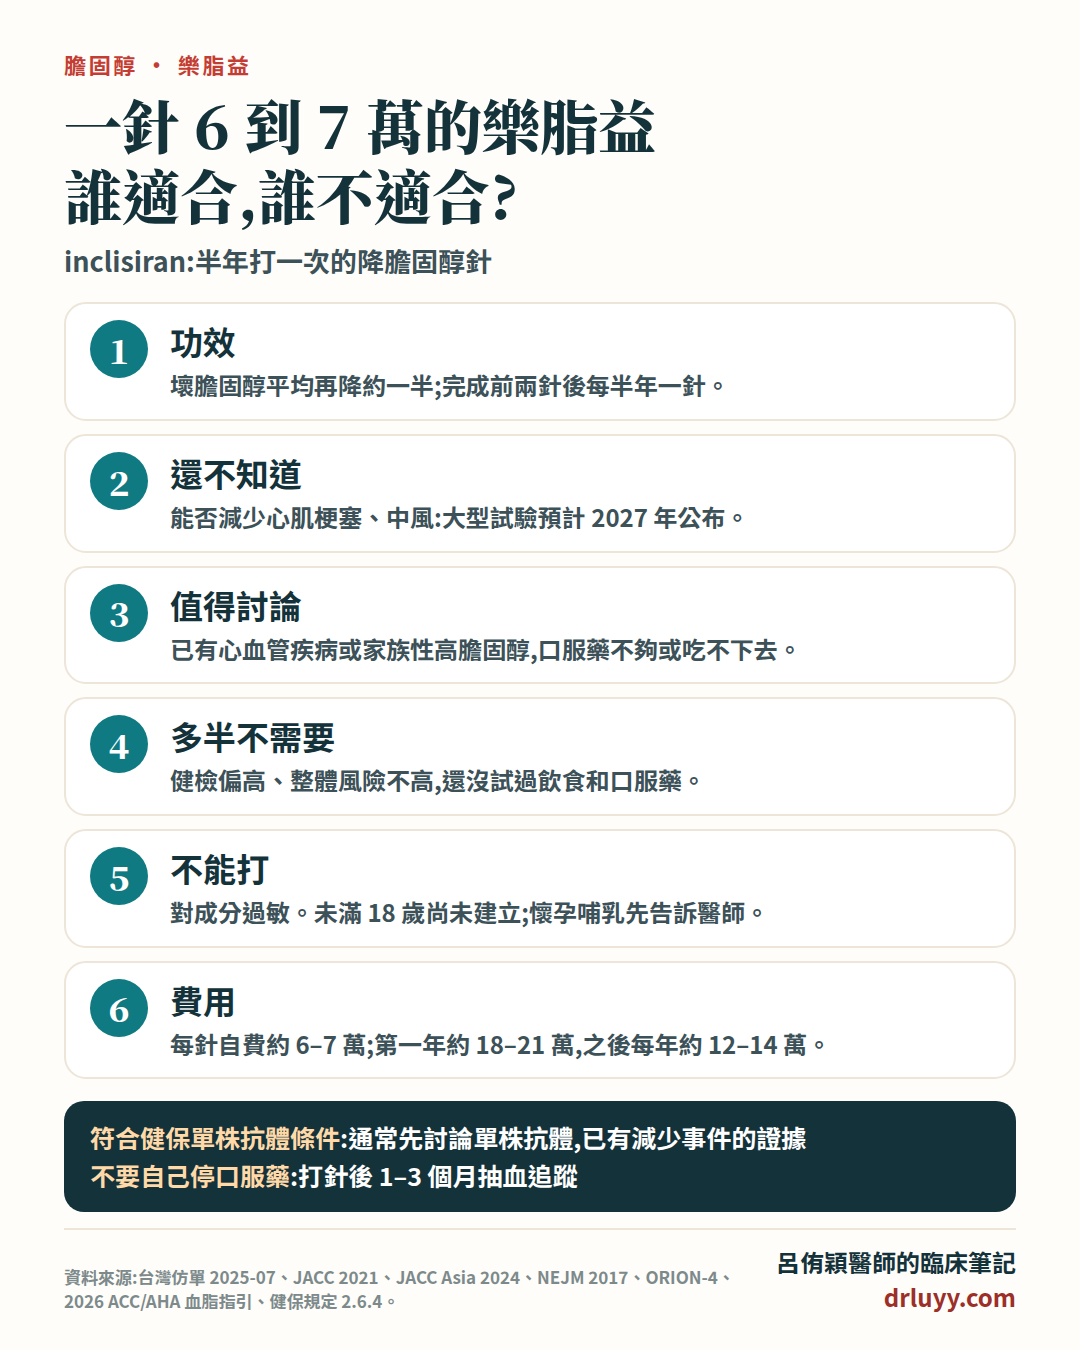
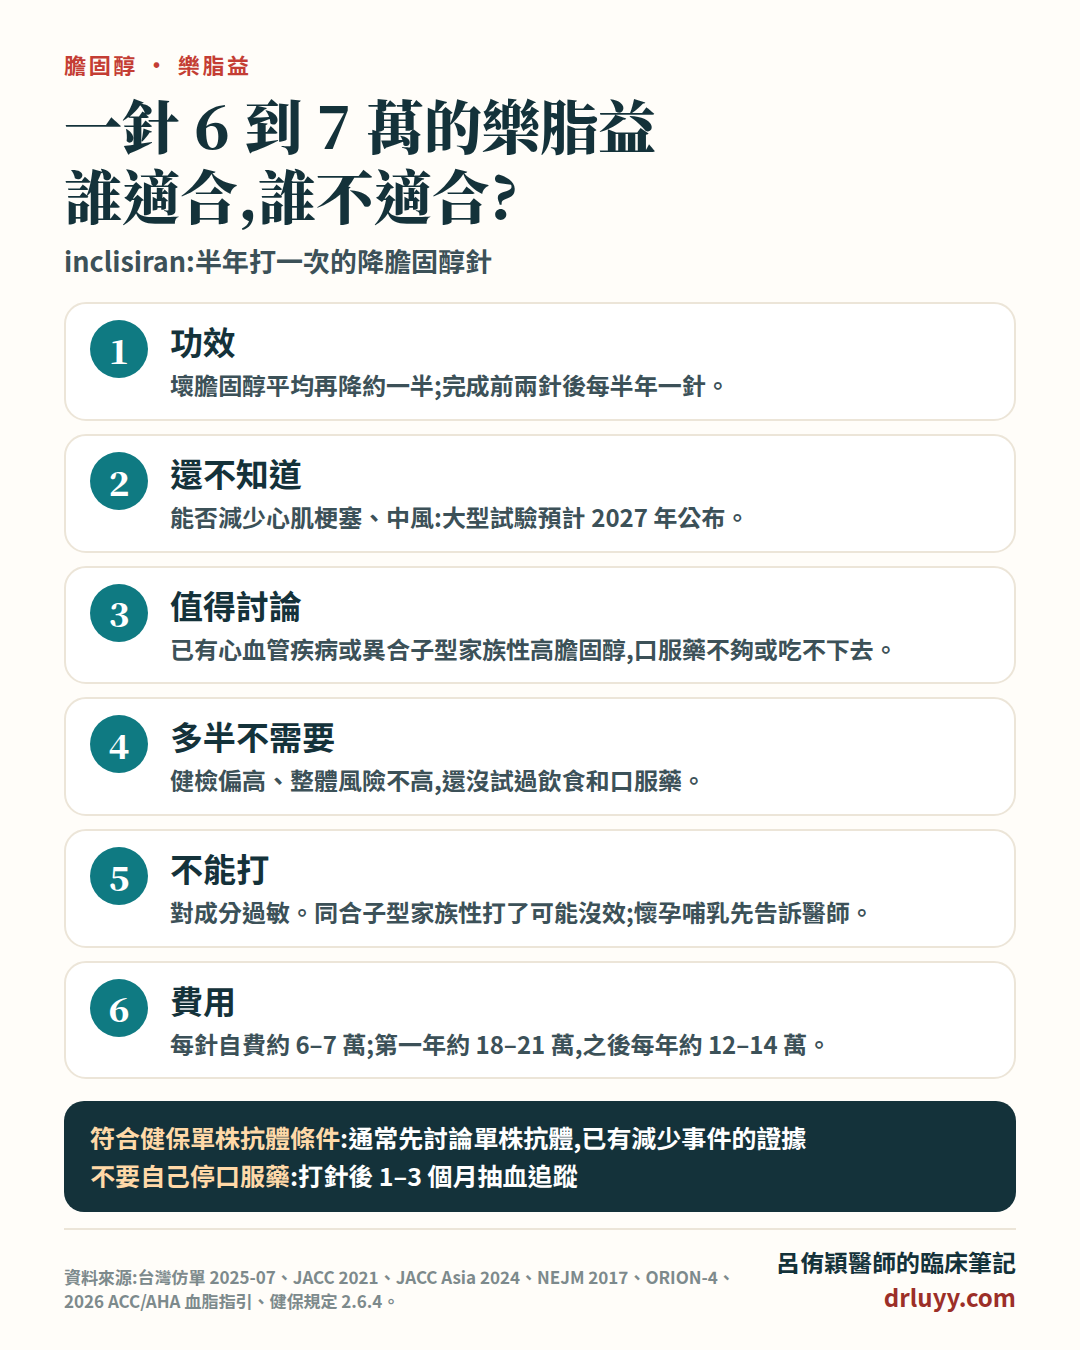
樂脂益:適用對象限定異合子型,註明同合子型可能無效

Changed region(s): [[0.275, 0.6533, 0.7944, 0.6844], [0.3361, 0.4667, 0.825, 0.4978]]

diff --git a/posts/leqvio-inclisiran.html b/posts/leqvio-inclisiran.html
@@ -84,8 +84,8 @@ gtag('config', 'G-BC1Z8X6BQT');
 ▎先講結論
 
 ① 功效:加在原本的治療上,壞膽固醇(LDL-C)平均再降約一半。完成前兩針後,每半年打一次可以維持效果。
-② 值得討論的人:已經有心肌梗塞、放過支架、動脈硬化造成的缺血性中風、周邊動脈疾病,或家族性高膽固醇血症,用了能耐受的口服藥,壞膽固醇還是到不了目標;或吃不了足夠的口服藥,又需要明顯降低的人。
-③ 多半不需要:一般健檢膽固醇偏高、整體風險不高,還沒試過飲食和口服藥的人。對成分過敏的人不能打。
+② 值得討論的人:已經有心肌梗塞、放過支架、動脈硬化造成的缺血性中風、周邊動脈疾病,或異合子型家族性高膽固醇血症(較常見的一型),用了能耐受的口服藥,壞膽固醇還是到不了目標;或吃不了足夠的口服藥,又需要明顯降低的人。
+③ 多半不需要:一般健檢膽固醇偏高、整體風險不高,還沒試過飲食和口服藥的人。對成分過敏的人不能打。罕見的同合子型家族性高膽固醇血症,打了可能沒有效果。
 ④ 還不知道的事:能不能減少心肌梗塞、中風,大型試驗預計 2027 年才公布。
 ⑤ 費用:依 2026 年 10 月院方公開資訊,每針自費約 6 到 7 萬元,第一年 3 針約 18 到 21 萬元,之後每年 2 針約 12 到 14 萬元(只算藥費),目前沒有健保給付。
 
